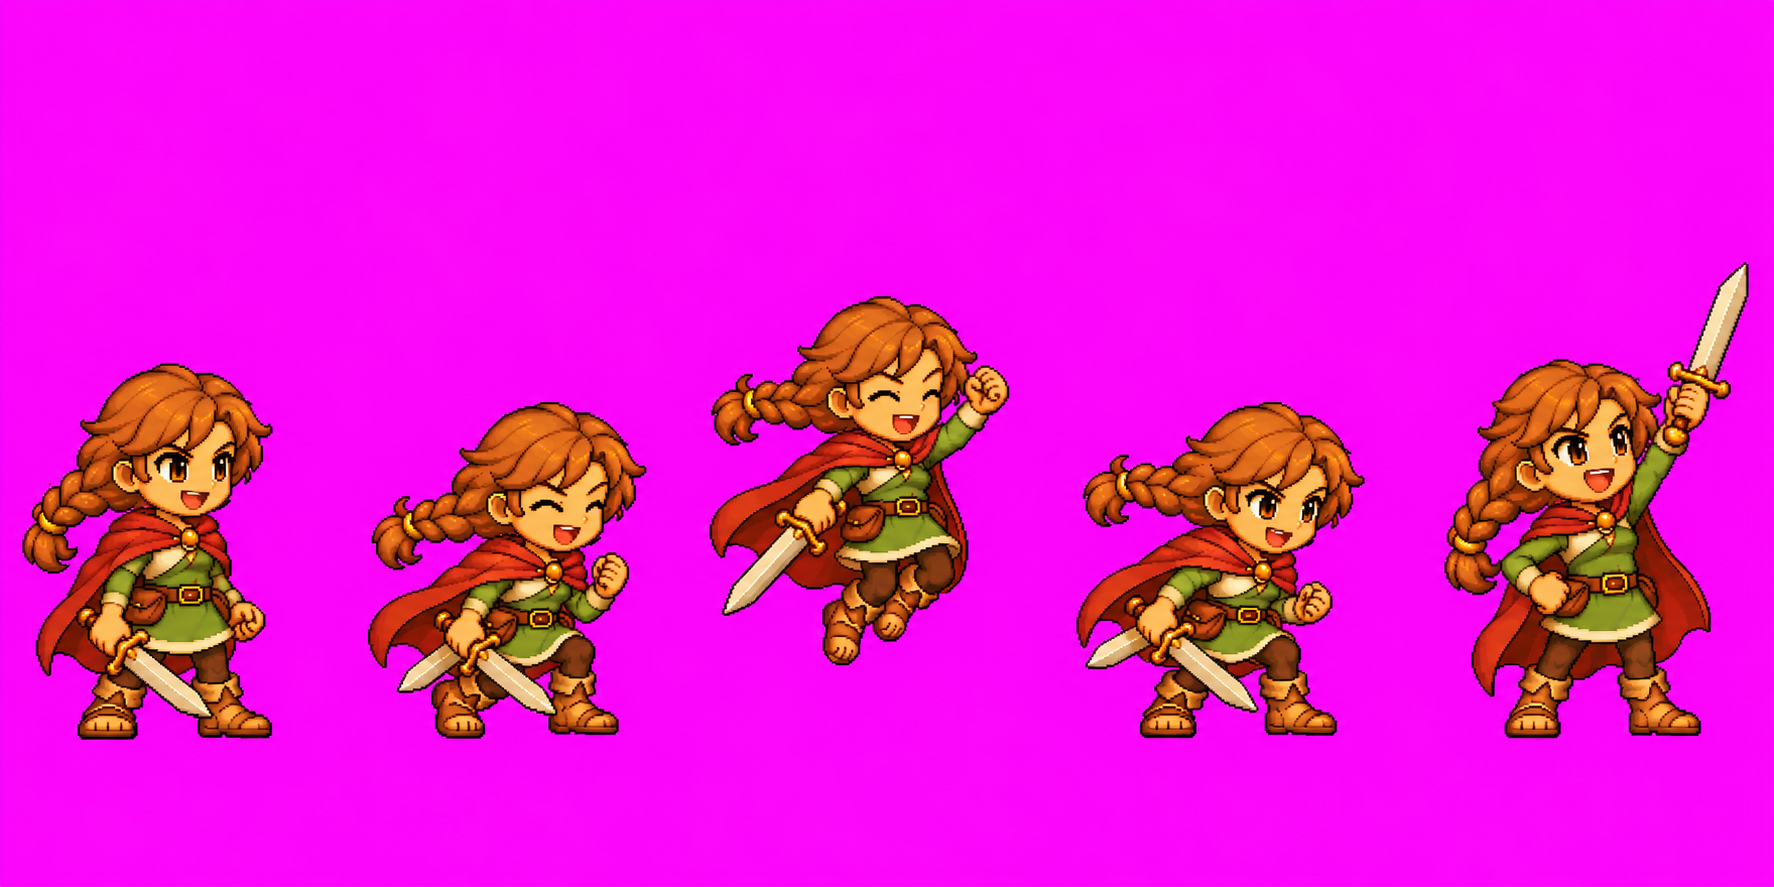
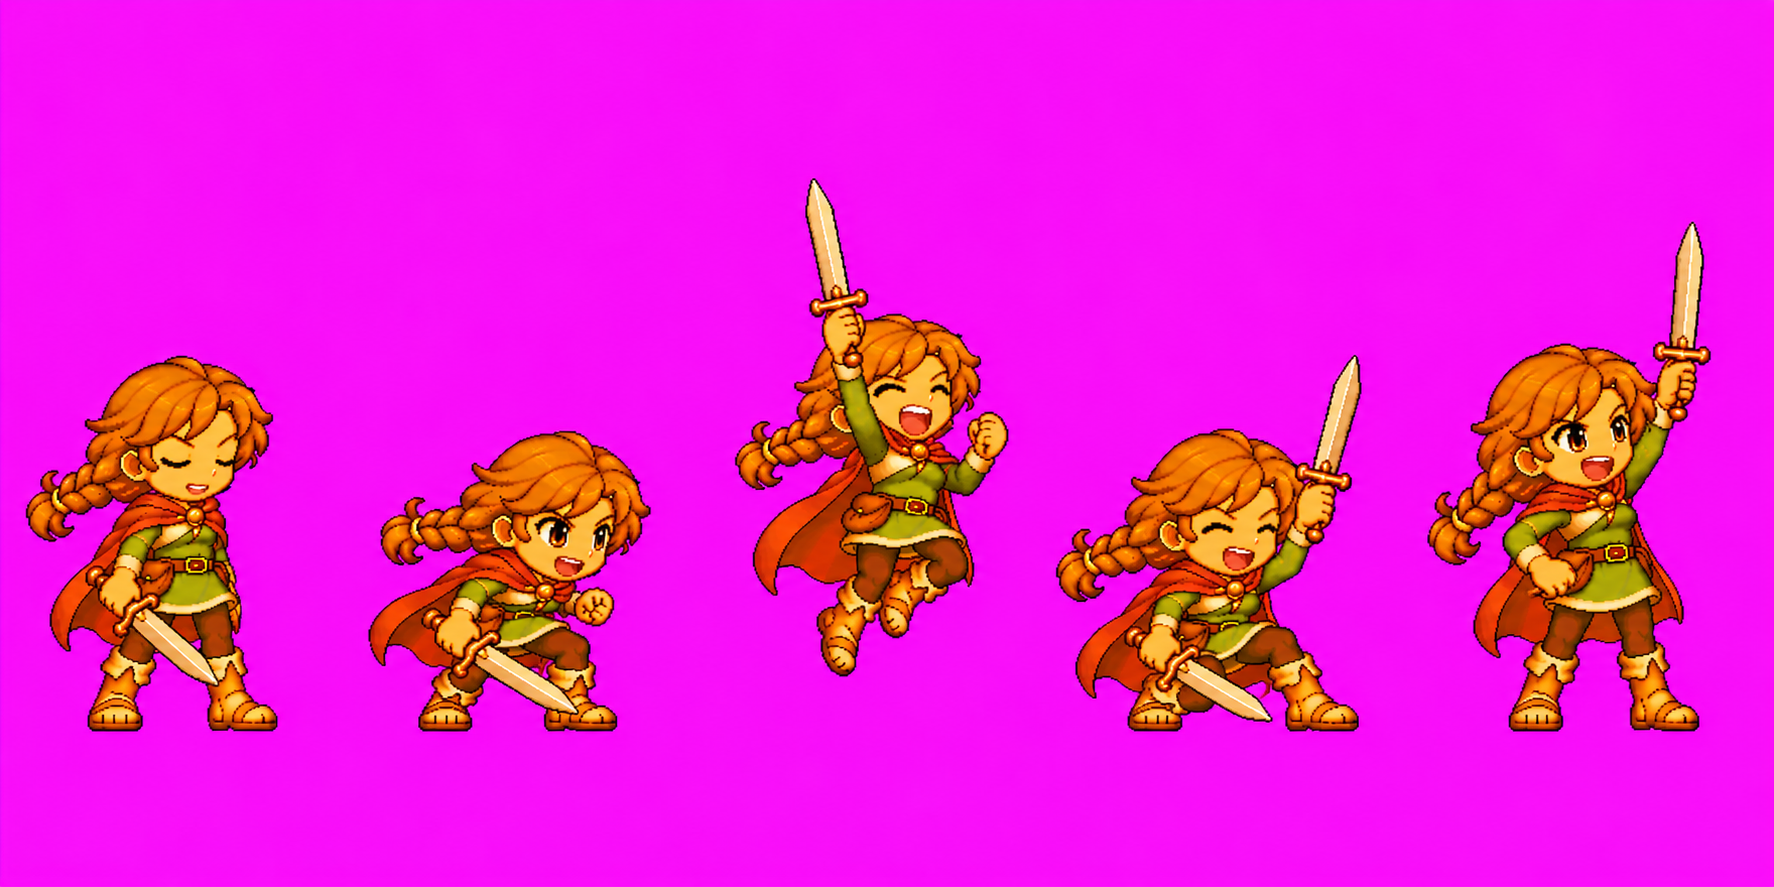
Girl hero: real die animation, redrawn cast/hurt/block/victory; steady run
- New girl strips: down (her own collapse, replacing borrowed block/power
  frames), cast (sword raised overhead), hurt (wince and recoil, no smile),
  block (brace and recover poses), victory (five distinct poses).
- process_hero.py: run frames line up on the upper body instead of the
  planted foot, which swaps each step. Removes a 13 px back-and-forth lurch
  in her run (8 px in the boy's); strip average stays where the feet put it.

diff --git a/scripts/art/process_hero.py b/scripts/art/process_hero.py
@@ -51,6 +51,9 @@ class Strip:
     names: list[str | None]
     # Hero size in this strip relative to the idle strip (measured from body and skin area).
     rel_scale: float
+    # How frames line up sideways: 'feet' (centre of the lowest rows) or 'body' (upper body).
+    # Use 'body' for cycles where the planted foot swaps each step (run), or the hero lurches.
+    anchor: str = 'feet'
 
 
 STRIPS = [
@@ -59,6 +62,7 @@ STRIPS = [
         'run.webp',
         ['run_0', 'run_1', 'run_2', 'run_3', 'run_4', 'run_5', 'run_6', 'run_7'],
         0.48,
+        anchor='body',
     ),
     Strip(
         'slash.webp',
@@ -235,6 +239,27 @@ def feet_anchor_x(img: Image.Image) -> int:
     return round((min(xs) + max(xs)) / 2)
 
 
+def body_anchor_x(img: Image.Image) -> float:
+    """Mean column of the upper body (top 60% of the frame): steadier than the feet in a run."""
+    w, _ = img.size
+    px = img.load()
+    _, top, _, bottom = opaque_bounds(img)
+    rows = range(top, top + round((bottom - top) * 0.6))
+    xs = [x for y in rows for x in range(w) if px[x, y][3]]
+    return sum(xs) / len(xs)
+
+
+def strip_anchors(strip: Strip, imgs: list[Image.Image]) -> list[int]:
+    """Sideways anchor per frame. 'body' strips line up on the upper body, shifted so the strip
+    sits where its feet would put it on average (no jump when switching from idle)."""
+    feet = [feet_anchor_x(img) for img in imgs]
+    if strip.anchor == 'feet':
+        return feet
+    body = [body_anchor_x(img) for img in imgs]
+    offset = sum(f - b for f, b in zip(feet, body)) / len(imgs)
+    return [round(b + offset) for b in body]
+
+
 @dataclass
 class Frame:
     name: str
@@ -253,9 +278,9 @@ def load_frames() -> list[Frame]:
         # Ground line of the strip = lowest opaque row of any frame, so jumps keep their height.
         shrunk = [shrink(src, m, scale) for m in masks]
         ground = max(opaque_bounds(s)[3] for s in shrunk)
-        for name, img in zip(strip.names, shrunk):
+        for name, img, anchor_x in zip(strip.names, shrunk, strip_anchors(strip, shrunk)):
             if name:
-                frames.append(Frame(name, img, feet_anchor_x(img), ground))
+                frames.append(Frame(name, img, anchor_x, ground))
     return frames
 
 
@@ -331,23 +356,18 @@ def write_preview(sheet: Image.Image, cell_w: int, cell_h: int, oy: int, n: int)
 GIRL_IDLE_SOURCE_HEIGHT = 415
 GIRL_STRIPS = [
     Strip('idle.png', ['idle_0', 'idle_1', 'idle_2', 'idle_3'], 1.0),
-    Strip('run.png', [f'run_{i}' for i in range(8)], 0.68),
+    Strip('run.png', [f'run_{i}' for i in range(8)], 0.68, anchor='body'),
     Strip('slash.png', [f'slash_{i}' for i in range(6)], 0.69),
     Strip('slash-powered.png', [f'power_{i}' for i in range(6)], 0.67),
     Strip('victory.png', [f'win_{i}' for i in range(5)], 0.91),
     Strip('cast.png', [f'cast_{i}' for i in range(5)], 0.91),
-    Strip('block.png', [f'block_{i}' for i in range(4)], 0.92),
-    Strip('hurt.png', ['hurt_0', 'hurt_1', 'hurt_2'], 1.22),
+    Strip('block.png', [f'block_{i}' for i in range(4)], 0.91),
+    Strip('hurt.png', ['hurt_0', 'hurt_1', 'hurt_2'], 1.18),
     Strip('poses.png', ['walk', 'thrust'], 1.40),
+    Strip('down.png', [f'down_{i}' for i in range(5)], 0.91),
 ]
-# Frames she has no art for yet → one of her frames to show instead (placeholders).
-GIRL_FALLBACKS = {
-    'down_0': 'block_2',
-    'down_1': 'power_0',
-    'down_2': 'power_4',
-    'down_3': 'power_4',
-    'down_4': 'power_4',
-}
+# Frames she has no art for yet → one of her frames to show instead (placeholders). None now.
+GIRL_FALLBACKS: dict[str, str] = {}
 
 
 def boy_frame_order() -> list[str]:

diff --git a/art/README.md b/art/README.md
@@ -33,8 +33,8 @@ at least 40 px of empty magenta between frames so they never touch.
 `hero-girl-raw/` holds the girl hero's strips (ChatGPT-drafted, same format as the boy's).
 `python3 scripts/art/process_hero.py --hero girl --preview` builds `src/assets/hero/hero-girl.png`
 and `src/core/anim/heroGirlSheet.ts` with exactly the boy's frames in the boy's order, so every
-clip plays on either hero. Strips she has no art for yet (down) borrow her other
-frames (`GIRL_FALLBACKS` in the script); add the strip to `GIRL_STRIPS` when it arrives.
+clip plays on either hero. She has every strip the boy has; a strip she lacks can borrow her
+other frames for a while (`GIRL_FALLBACKS` in the script) until it is added to `GIRL_STRIPS`.
 Her `poses.png` has just two frames, `walk` and `thrust`.
 Each strip's `rel_scale` there is her size relative to `idle.png` (check `art/hero-girl-preview.png`).
 
